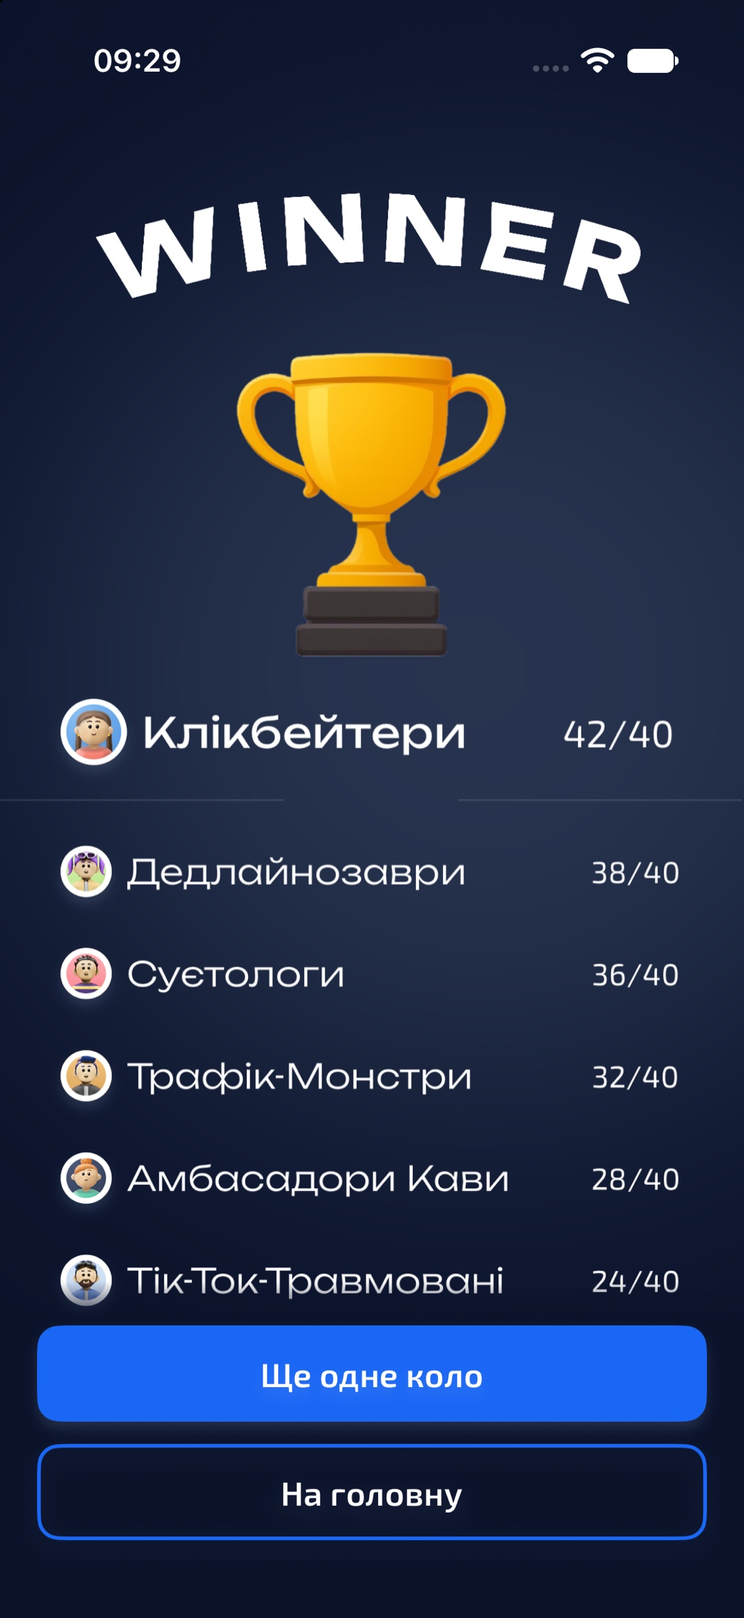
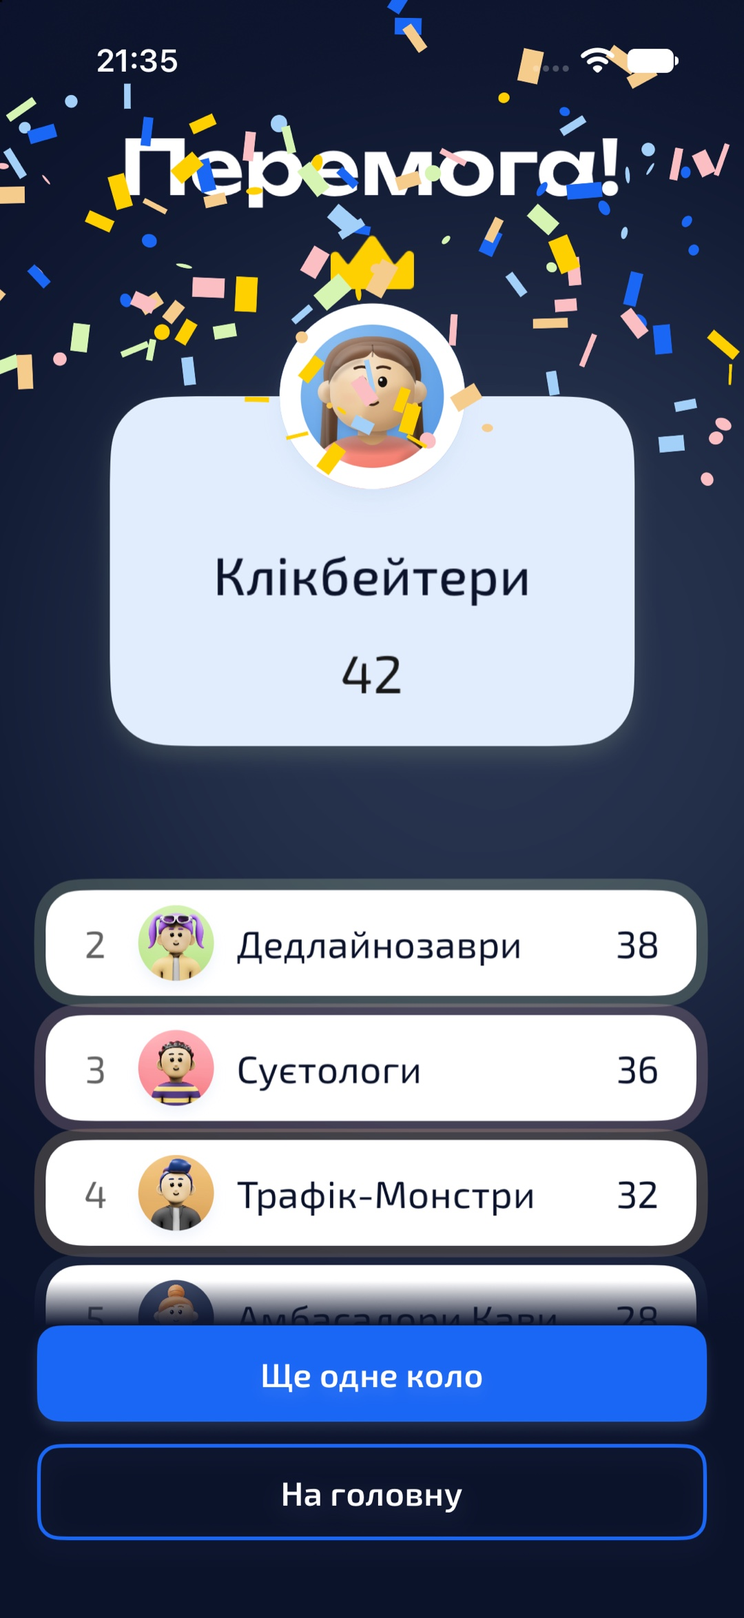
Перемога: картка переможця, «Перемога!» замість WINNER, салют
Claude-Session: https://claude.ai/code/session_01SnGbK59qBap6rGwT8CguWL

diff --git a/index.html b/index.html
@@ -155,7 +155,7 @@ body.canvas .canvashint{display:block}
 </div>
 <div class="toast" id="toast">Коментар надіслано</div>
 <iframe name="gsink" hidden></iframe>
-<script id="data" type="application/json">[{"id": "home", "title": "Головна", "flows": [{"id": "home-main", "title": "Головна й слово дня", "screens": [["main", "Головна", "Слово дня закрите, «Нова гра» і «Приєднатись до кімнати»"], ["mainWord", "Слово дня відкрите", "Лице з коротким визначенням і кнопкою «Зберегти»"], ["mainGame", "Є активна партія", "Картка «Продовжити гру» над кнопками"]]}]}, {"id": "local", "title": "Гра на одному пристрої", "flows": [{"id": "local-start", "title": "Старт і правила", "screens": [["playStyle", "Спосіб гри", "На одному телефоні або кожен зі свого (кімната)"], ["rules", "Правила · команди", "Три слайди, свайп або «Далі»"], ["rules2", "Правила: 2 з 3", "Що заборонено: однокореневі, жести, пропуск без штрафу"], ["rules3", "Правила: 3 з 3", "Система балів, кнопка «Готово»"], ["rulesSolo", "Правила · одиночна", "Окремий набір правил"], ["gameMode", "Формат гри", "Командний чи одиночний"]]}, {"id": "local-teams", "title": "Команди", "screens": [["participantCount", "Кількість", "Скільки гравців і команд"], ["teamList", "Команди", "Назви й аватари, «Додати команду»"], ["teamListRename", "Перейменування", "Оверлей із полем"], ["teamListAdd", "Нова команда", "Той самий оверлей: аватар і колір наступні за списком"], ["teamListSolo", "Одиночний режим", "Список гравців, під ним «Переглянути правила»"]]}, {"id": "local-sets", "title": "Набори слів", "screens": [["setList", "Набори слів", "«Усе й одразу» і окремі сети, фільтри-таби"], ["setListOwned", "Набори · куплений сет", "Бейдж «Придбано» на картці"], ["setDetail", "Опис набору", "Безкоштовний сет: теги слів і «Грати»"], ["setDetailOwned", "Опис · куплений", "Сет відкрито покупкою"]]}, {"id": "local-mode", "title": "Режим гри", "screens": [["gameSettings", "Режим гри", "Три пастельні режими й «Свій режим»"], ["gameSettingsQuick", "Швидка гра", "Пресет одним тапом: 40 с, до 20 очок"], ["gameSettingsDetails", "Свій режим", "Чіпи, слайдери-пігулки, тумблери всередині картки"]]}, {"id": "local-ready", "title": "Між раундами", "screens": [["getReady", "Раунд 1", "Рахунок команд, «Почати гру»"], ["getReady6", "Раунд · 6 команд", "Повний список"], ["getReadyCircle", "Раунд · кінець кола", "Ліміт узято, коло дограють"], ["ranking", "Коло завершено · топ 3", "Після кола той самий екран показує пʼєдестал"], ["ranking6", "Коло завершено · 6 команд", "Пʼєдестал і таблиця решти"]]}]}, {"id": "room", "title": "Кімната (кілька телефонів)", "flows": [{"id": "room-host", "title": "Організатор", "screens": [["playerNameHost", "Твій нік · організатор", "Порожнє поле, «Створити кімнату» неактивна"], ["createRoom", "Лобі організатора", "Код і QR для гостей, список учасників"], ["createRoomEmpty", "Порожня кімната", "Лише організатор, «Чекаємо на гравців…», «Продовжити» вимкнена"], ["createRoomClose", "Закрити кімнату?", "Вихід із лобі до старту"], ["gameModeRoom", "Формат · мала кімната", "До 3 гравців доступний і одиночний"], ["gameModeRoomBig", "Формат · кімната", "Одиночний недоступний, коли гравців більше 3"], ["participantCountRoom", "Учасники · кімната", "Аватари з лобі, вибір кількості команд"], ["teamRoster", "Команди · кімната", "Гравців можна перетягувати між командами"], ["roomRoleExplainer", "Роль: пояснювач", "Бачить слова, старт раунду"], ["roomHostExit", "Вихід організатора", "Роль переходить наступному гравцю"]]}, {"id": "room-join", "title": "Гість: приєднання", "screens": [["joinRoom", "Приєднатись", "Код шістьма плитками, «Сканувати QR»"], ["joinRoomFilled", "Код набрано", "Каретка на активній плитці"], ["joinRoomError", "Кімнату не знайдено", "Червоні плитки, струс"], ["joinRoomLink", "Вставлене посилання", "Із посилання-запрошення поле бере лише код і одразу входить"], ["scanQR", "Сканування QR", "Вікно з градієнтною рамкою, стан у капсулі"], ["scanQRFound", "QR зчитано", "Зелені скоби, код плитками"], ["playerName", "Твій нік", "Аватар і нік перед лобі"], ["playerNameFilled", "Нік заповнено", "Минулий нік підставлено"], ["roomLobby", "Лобі гостя", "Аватар організатора, код, список учасників"], ["teamRosterGuest", "Команди · гість", "Готовий склад, своя команда з бейджем «ти»"], ["roomClosed", "Кімнату закрито", "Організатор вийшов до старту"]]}, {"id": "room-round", "title": "Гість: раунд", "screens": [["roomRole", "Роль: відгадувач", "Слухає й вигукує"], ["roomRoleWatch", "Роль: стоп-слова", "Суперник у хард-режимі стежить за забороненими"], ["roomGuessing", "Раунд у гостя", "Слово сховане, «Вигукуй варіанти» на місці CTA"], ["roomGuessingWait", "Раунд суперника", "Грає інша команда, чекай свій хід"], ["roomGuessingHard", "Хард-режим · суперники", "Заборонені слова й «Зняти слово»"], ["roomGuessingStop", "Слово знято", "Штамп «Порушення!»"], ["roomGuessingLastWord", "Останнє слово", "Вгадують усі"], ["roomGuessingExit", "Вийти з гри?", "Таймер на паузі"], ["roomHostLost", "Організатор зник", "Пауза й відлік до передачі ролі"]]}]}, {"id": "loop", "title": "Ігровий цикл", "flows": [{"id": "loop-round", "title": "Раунд", "screens": [["gameplayCountdown", "Відлік", "3, 2, 1"], ["gameplay", "Раунд", "Свайп угору: відгадано"], ["gameplayHardWord", "Складне слово", "На картці «+2»: складне слово дає два бали"], ["gameplayHint", "Підказки свайпу", "Показуються в перших раундах"], ["gameplaySwipe", "Свайп угору", "Вердикт видно під пальцем"], ["gameplayHard", "Хард-режим · пояснювач", "Три заборонені підказки під терміном"], ["gameplayStreak", "Бонус за серію", "Спалах при серії"], ["gameplayLastSeconds", "Останні 10 секунд", "Таймер і смужка персикові, цифра пульсує"], ["gameplayLastWord", "Останнє слово", "Час вийшов на слові"], ["gameplayModal", "Хто відгадав", "Вибір команди для останнього слова"], ["gameplayExit", "Вийти з гри?", "Таймер на паузі, раунд не збережеться"]]}, {"id": "loop-results", "title": "Підсумок раунду", "screens": [["roundResults", "Підсумок раунду", "Зірка «зараховано», тап по слову розкриває значення"], ["roundResultsOpen", "Слово розкрите", "Визначення під терміном"], ["roundResultsHard", "Складні слова +2", "Корона «+2» у чіпі складного слова"], ["roundResultsStop", "Підсумок зі знятим словом", "Позначка біля знятого слова"], ["roundResultsCredited", "Бал іншій команді", "Капсула з назвою команди"], ["roundResultsGuest", "Підсумок у гостя", "Зірки лише для читання"]]}, {"id": "loop-final", "title": "Фінал", "screens": [["win", "Перемога", "«Ще одне коло» або на головну"]]}]}, {"id": "dict", "title": "Словник", "flows": [{"id": "dict-main", "title": "Словник", "screens": [["savedWords", "Словник", "Плитки «Вивчено / Вчу» — фільтр статусу, чипи — набори"], ["savedWordsFiltered", "Фільтр: Вчу + набір", "Плитка «Вчу» обрана, чип набору — два фільтри разом"], ["savedWordsDone", "Усе вивчено", "Таб «Вчу» зник як порожній"], ["savedWordsEmpty", "Порожній словник", "До першого слова"]]}, {"id": "dict-cards", "title": "Флешкартки", "screens": [["savedWordCardsCoachTap", "Онбординг · торкнись", "Підказка на місці лічильника"], ["savedWordCardsCoachBack", "Онбординг · свайпни", "Угору, якщо знаєш; вниз, якщо ще вчиш"], ["savedWordCards", "Лице картки", "Сет згори, бокові картки, «Вивчено / Вчу»"], ["savedWordCardsBack", "Зворот", "Визначення й «ПРИКЛАД»"], ["savedWordCardsDragUp", "Тягнуть угору", "Штамп «Вивчено», лічильник підсвічено"], ["savedWordCardsDragDown", "Тягнуть униз", "Штамп «Ще вчу»"], ["savedWordCardsConfetti", "Колоду пройдено", "Салют конфеті на фіналі"], ["savedWordCardsDone", "Фінал колоди", "«Додати слова» або «Повторити всі»"]]}, {"id": "dict-history", "title": "Історія ігор", "screens": [["addWords", "Історія ігор", "Партії: сети, переможець, стос команд"], ["playedGameWords", "Слова партії", "«Зберегти» в словник"], ["playedGameWordsToast", "Слово додано", "Тост-капсула"], ["playedGameWordsTeam", "Фільтр команди", "Лише слова обраної команди"], ["addWordsEmpty", "Ще не грали", "Порожня історія"]]}]}, {"id": "money", "title": "Монетизація", "flows": [{"id": "money-paywall", "title": "Пейвол і покупки", "screens": [["paywall", "Пейвол підписки", "Тарифи 1 і 3 місяці"], ["paywallPay", "Шторка оплати", "Нативна StoreKit"], ["paywallSet", "Пейвол набору", "Купівля одного сету"], ["paywallBrands", "Пейвол · Бренди", "Конкретний набір"], ["paywallSocial", "Пейвол · Соцмережі", "Інший набір, інша обкладинка"], ["paywallTools", "Пейвол · Інструменти", "Ще один набір"], ["paywallOwned", "Придбаний набір", "«Грати» і «Повний доступ»"], ["paywallActive", "Активна підписка", "Чинний доступ"]]}]}, {"id": "states", "title": "Діалоги, тости, помилки", "flows": [{"id": "states-confirm", "title": "Вікна підтвердження", "screens": [["mainNewGame", "Почати нову гру?", "Є активна партія: нова гра стирає поточну"], ["getReadyExit", "Вийти з гри: підготовка", "У кімнаті організатор передає роль і виходить"], ["rankingExit", "Вийти з гри: коло завершено", "Те саме підтвердження між раундами"], ["teamRosterExit", "Вийти з гри: гість", "Гість покидає кімнату, гра йде без нього"]]}, {"id": "states-toast", "title": "Повідомлення внизу екрана", "screens": [["createRoomCopied", "Код скопійовано", "Інфо-тост над парою кнопок"], ["roomGuessingNewHost", "Новий організатор", "Організатор пішов, роль перейшла гравцю"], ["roomGuessingHostBack", "Організатор повернувся", "Після короткого обриву звʼязку"], ["teamRosterFew", "Замало гравців", "Попередження: на ще одну команду людей не вистачає"], ["paywallErrorVerify", "Покупку не підтверджено", "Помилка перевірки чека"], ["paywallErrorPending", "Оплата очікує", "Покупка чекає на підтвердження (напр., батьківський контроль)"], ["paywallErrorGeneric", "Помилка оплати", "Загальна помилка з причиною"]]}, {"id": "states-input", "title": "Ліміти й помилки вводу", "screens": [["playerNameLong", "Нік задовгий", "Понад 16 символів: поле в помилці, кнопка вимкнена"], ["teamListRenameLong", "Назва команди задовга", "Понад 20 символів: «Зберегти» вимкнена"], ["teamListMax", "Максимум команд", "Шість команд, «Додати команду» вимкнена"]]}]}, {"id": "settings", "title": "Налаштування", "flows": [{"id": "settings-sub", "title": "Підписка: усі стани", "screens": [["appSettings", "Без підписки", "«Відкрити всі сети»"], ["appSettingsSets", "Куплені окремі сети", "Список куплених сетів у блоці Pro"], ["appSettingsPro", "Підписка активна", "1 місяць, до дати, «Керувати підпискою»"], ["appSettingsProEnding", "Підписку скасовано", "Діє до дати, не продовжиться"], ["appSettingsBilling", "Оплата не пройшла", "Apple повторює спробу"], ["appSettingsExpired", "Підписка закінчилась", "«Поновити підписку»"]]}, {"id": "settings-other", "title": "Інше", "screens": [["appSettingsLanguage", "Вибір мови", "Українська, English «скоро»"], ["launch", "Запуск", "Сплеш при старті"]]}]}]</script>
+<script id="data" type="application/json">[{"id": "home", "title": "Головна", "flows": [{"id": "home-main", "title": "Головна й слово дня", "screens": [["main", "Головна", "Слово дня закрите, «Нова гра» і «Приєднатись до кімнати»"], ["mainWord", "Слово дня відкрите", "Лице з коротким визначенням і кнопкою «Зберегти»"], ["mainGame", "Є активна партія", "Картка «Продовжити гру» над кнопками"]]}]}, {"id": "local", "title": "Гра на одному пристрої", "flows": [{"id": "local-start", "title": "Старт і правила", "screens": [["playStyle", "Спосіб гри", "На одному телефоні або кожен зі свого (кімната)"], ["rules", "Правила · команди", "Три слайди, свайп або «Далі»"], ["rules2", "Правила: 2 з 3", "Що заборонено: однокореневі, жести, пропуск без штрафу"], ["rules3", "Правила: 3 з 3", "Система балів, кнопка «Готово»"], ["rulesSolo", "Правила · одиночна", "Окремий набір правил"], ["gameMode", "Формат гри", "Командний чи одиночний"]]}, {"id": "local-teams", "title": "Команди", "screens": [["participantCount", "Кількість", "Скільки гравців і команд"], ["teamList", "Команди", "Назви й аватари, «Додати команду»"], ["teamListRename", "Перейменування", "Оверлей із полем"], ["teamListAdd", "Нова команда", "Той самий оверлей: аватар і колір наступні за списком"], ["teamListSolo", "Одиночний режим", "Список гравців, під ним «Переглянути правила»"]]}, {"id": "local-sets", "title": "Набори слів", "screens": [["setList", "Набори слів", "«Усе й одразу» і окремі сети, фільтри-таби"], ["setListOwned", "Набори · куплений сет", "Бейдж «Придбано» на картці"], ["setDetail", "Опис набору", "Безкоштовний сет: теги слів і «Грати»"], ["setDetailOwned", "Опис · куплений", "Сет відкрито покупкою"]]}, {"id": "local-mode", "title": "Режим гри", "screens": [["gameSettings", "Режим гри", "Три пастельні режими й «Свій режим»"], ["gameSettingsQuick", "Швидка гра", "Пресет одним тапом: 40 с, до 20 очок"], ["gameSettingsDetails", "Свій режим", "Чіпи, слайдери-пігулки, тумблери всередині картки"]]}, {"id": "local-ready", "title": "Між раундами", "screens": [["getReady", "Раунд 1", "Рахунок команд, «Почати гру»"], ["getReady6", "Раунд · 6 команд", "Повний список"], ["getReadyCircle", "Раунд · кінець кола", "Ліміт узято, коло дограють"], ["ranking", "Коло завершено · топ 3", "Після кола той самий екран показує пʼєдестал"], ["ranking6", "Коло завершено · 6 команд", "Пʼєдестал і таблиця решти"]]}]}, {"id": "room", "title": "Кімната (кілька телефонів)", "flows": [{"id": "room-host", "title": "Організатор", "screens": [["playerNameHost", "Твій нік · організатор", "Порожнє поле, «Створити кімнату» неактивна"], ["createRoom", "Лобі організатора", "Код і QR для гостей, список учасників"], ["createRoomEmpty", "Порожня кімната", "Лише організатор, «Чекаємо на гравців…», «Продовжити» вимкнена"], ["createRoomClose", "Закрити кімнату?", "Вихід із лобі до старту"], ["gameModeRoom", "Формат · мала кімната", "До 3 гравців доступний і одиночний"], ["gameModeRoomBig", "Формат · кімната", "Одиночний недоступний, коли гравців більше 3"], ["participantCountRoom", "Учасники · кімната", "Аватари з лобі, вибір кількості команд"], ["teamRoster", "Команди · кімната", "Гравців можна перетягувати між командами"], ["roomRoleExplainer", "Роль: пояснювач", "Бачить слова, старт раунду"], ["roomHostExit", "Вихід організатора", "Роль переходить наступному гравцю"]]}, {"id": "room-join", "title": "Гість: приєднання", "screens": [["joinRoom", "Приєднатись", "Код шістьма плитками, «Сканувати QR»"], ["joinRoomFilled", "Код набрано", "Каретка на активній плитці"], ["joinRoomError", "Кімнату не знайдено", "Червоні плитки, струс"], ["joinRoomLink", "Вставлене посилання", "Із посилання-запрошення поле бере лише код і одразу входить"], ["scanQR", "Сканування QR", "Вікно з градієнтною рамкою, стан у капсулі"], ["scanQRFound", "QR зчитано", "Зелені скоби, код плитками"], ["playerName", "Твій нік", "Аватар і нік перед лобі"], ["playerNameFilled", "Нік заповнено", "Минулий нік підставлено"], ["roomLobby", "Лобі гостя", "Аватар організатора, код, список учасників"], ["teamRosterGuest", "Команди · гість", "Готовий склад, своя команда з бейджем «ти»"], ["roomClosed", "Кімнату закрито", "Організатор вийшов до старту"]]}, {"id": "room-round", "title": "Гість: раунд", "screens": [["roomRole", "Роль: відгадувач", "Слухає й вигукує"], ["roomRoleWatch", "Роль: стоп-слова", "Суперник у хард-режимі стежить за забороненими"], ["roomGuessing", "Раунд у гостя", "Слово сховане, «Вигукуй варіанти» на місці CTA"], ["roomGuessingWait", "Раунд суперника", "Грає інша команда, чекай свій хід"], ["roomGuessingHard", "Хард-режим · суперники", "Заборонені слова й «Зняти слово»"], ["roomGuessingStop", "Слово знято", "Штамп «Порушення!»"], ["roomGuessingLastWord", "Останнє слово", "Вгадують усі"], ["roomGuessingExit", "Вийти з гри?", "Таймер на паузі"], ["roomHostLost", "Організатор зник", "Пауза й відлік до передачі ролі"]]}]}, {"id": "loop", "title": "Ігровий цикл", "flows": [{"id": "loop-round", "title": "Раунд", "screens": [["gameplayCountdown", "Відлік", "3, 2, 1"], ["gameplay", "Раунд", "Свайп угору: відгадано"], ["gameplayHardWord", "Складне слово", "На картці «+2»: складне слово дає два бали"], ["gameplayHint", "Підказки свайпу", "Показуються в перших раундах"], ["gameplaySwipe", "Свайп угору", "Вердикт видно під пальцем"], ["gameplayHard", "Хард-режим · пояснювач", "Три заборонені підказки під терміном"], ["gameplayStreak", "Бонус за серію", "Спалах при серії"], ["gameplayLastSeconds", "Останні 10 секунд", "Таймер і смужка персикові, цифра пульсує"], ["gameplayLastWord", "Останнє слово", "Час вийшов на слові"], ["gameplayModal", "Хто відгадав", "Вибір команди для останнього слова"], ["gameplayExit", "Вийти з гри?", "Таймер на паузі, раунд не збережеться"]]}, {"id": "loop-results", "title": "Підсумок раунду", "screens": [["roundResults", "Підсумок раунду", "Зірка «зараховано», тап по слову розкриває значення"], ["roundResultsOpen", "Слово розкрите", "Визначення під терміном"], ["roundResultsHard", "Складні слова +2", "Корона «+2» у чіпі складного слова"], ["roundResultsStop", "Підсумок зі знятим словом", "Позначка біля знятого слова"], ["roundResultsCredited", "Бал іншій команді", "Капсула з назвою команди"], ["roundResultsGuest", "Підсумок у гостя", "Зірки лише для читання"]]}, {"id": "loop-final", "title": "Фінал", "screens": [["win", "Перемога", "Картка переможця в кольорі команди, корона, салют; решта списком"]]}]}, {"id": "dict", "title": "Словник", "flows": [{"id": "dict-main", "title": "Словник", "screens": [["savedWords", "Словник", "Плитки «Вивчено / Вчу» — фільтр статусу, чипи — набори"], ["savedWordsFiltered", "Фільтр: Вчу + набір", "Плитка «Вчу» обрана, чип набору — два фільтри разом"], ["savedWordsDone", "Усе вивчено", "Таб «Вчу» зник як порожній"], ["savedWordsEmpty", "Порожній словник", "До першого слова"]]}, {"id": "dict-cards", "title": "Флешкартки", "screens": [["savedWordCardsCoachTap", "Онбординг · торкнись", "Підказка на місці лічильника"], ["savedWordCardsCoachBack", "Онбординг · свайпни", "Угору, якщо знаєш; вниз, якщо ще вчиш"], ["savedWordCards", "Лице картки", "Сет згори, бокові картки, «Вивчено / Вчу»"], ["savedWordCardsBack", "Зворот", "Визначення й «ПРИКЛАД»"], ["savedWordCardsDragUp", "Тягнуть угору", "Штамп «Вивчено», лічильник підсвічено"], ["savedWordCardsDragDown", "Тягнуть униз", "Штамп «Ще вчу»"], ["savedWordCardsConfetti", "Колоду пройдено", "Салют конфеті на фіналі"], ["savedWordCardsDone", "Фінал колоди", "«Додати слова» або «Повторити всі»"]]}, {"id": "dict-history", "title": "Історія ігор", "screens": [["addWords", "Історія ігор", "Партії: сети, переможець, стос команд"], ["playedGameWords", "Слова партії", "«Зберегти» в словник"], ["playedGameWordsToast", "Слово додано", "Тост-капсула"], ["playedGameWordsTeam", "Фільтр команди", "Лише слова обраної команди"], ["addWordsEmpty", "Ще не грали", "Порожня історія"]]}]}, {"id": "money", "title": "Монетизація", "flows": [{"id": "money-paywall", "title": "Пейвол і покупки", "screens": [["paywall", "Пейвол підписки", "Тарифи 1 і 3 місяці"], ["paywallPay", "Шторка оплати", "Нативна StoreKit"], ["paywallSet", "Пейвол набору", "Купівля одного сету"], ["paywallBrands", "Пейвол · Бренди", "Конкретний набір"], ["paywallSocial", "Пейвол · Соцмережі", "Інший набір, інша обкладинка"], ["paywallTools", "Пейвол · Інструменти", "Ще один набір"], ["paywallOwned", "Придбаний набір", "«Грати» і «Повний доступ»"], ["paywallActive", "Активна підписка", "Чинний доступ"]]}]}, {"id": "states", "title": "Діалоги, тости, помилки", "flows": [{"id": "states-confirm", "title": "Вікна підтвердження", "screens": [["mainNewGame", "Почати нову гру?", "Є активна партія: нова гра стирає поточну"], ["getReadyExit", "Вийти з гри: підготовка", "У кімнаті організатор передає роль і виходить"], ["rankingExit", "Вийти з гри: коло завершено", "Те саме підтвердження між раундами"], ["teamRosterExit", "Вийти з гри: гість", "Гість покидає кімнату, гра йде без нього"]]}, {"id": "states-toast", "title": "Повідомлення внизу екрана", "screens": [["createRoomCopied", "Код скопійовано", "Інфо-тост над парою кнопок"], ["roomGuessingNewHost", "Новий організатор", "Організатор пішов, роль перейшла гравцю"], ["roomGuessingHostBack", "Організатор повернувся", "Після короткого обриву звʼязку"], ["teamRosterFew", "Замало гравців", "Попередження: на ще одну команду людей не вистачає"], ["paywallErrorVerify", "Покупку не підтверджено", "Помилка перевірки чека"], ["paywallErrorPending", "Оплата очікує", "Покупка чекає на підтвердження (напр., батьківський контроль)"], ["paywallErrorGeneric", "Помилка оплати", "Загальна помилка з причиною"]]}, {"id": "states-input", "title": "Ліміти й помилки вводу", "screens": [["playerNameLong", "Нік задовгий", "Понад 16 символів: поле в помилці, кнопка вимкнена"], ["teamListRenameLong", "Назва команди задовга", "Понад 20 символів: «Зберегти» вимкнена"], ["teamListMax", "Максимум команд", "Шість команд, «Додати команду» вимкнена"]]}]}, {"id": "settings", "title": "Налаштування", "flows": [{"id": "settings-sub", "title": "Підписка: усі стани", "screens": [["appSettings", "Без підписки", "«Відкрити всі сети»"], ["appSettingsSets", "Куплені окремі сети", "Список куплених сетів у блоці Pro"], ["appSettingsPro", "Підписка активна", "1 місяць, до дати, «Керувати підпискою»"], ["appSettingsProEnding", "Підписку скасовано", "Діє до дати, не продовжиться"], ["appSettingsBilling", "Оплата не пройшла", "Apple повторює спробу"], ["appSettingsExpired", "Підписка закінчилась", "«Поновити підписку»"]]}, {"id": "settings-other", "title": "Інше", "screens": [["appSettingsLanguage", "Вибір мови", "Українська, English «скоро»"], ["launch", "Запуск", "Сплеш при старті"]]}]}]</script>
 <script>
 const DATA=JSON.parse(document.getElementById('data').textContent);
 const $=s=>document.querySelector(s);
@@ -180,7 +180,7 @@ function render(){
   board+=`<div class="secgrp"><div class="sechead" id="${sec.id}"><h2>${sec.title}</h2><span>${cnt} ${plural(cnt)}</span></div>`;
   flows.forEach(x=>{
    board+=`<section class="flow" id="${x.f.id}"><div class="flowcap"><h3>${x.f.title}</h3><span>${x.items.length} ${plural(x.items.length)}</span><button data-cflow="${x.f.id}">Коментувати флоу</button></div><div class="rowwrap"><button class="arrow l" aria-label="Назад">←</button><div class="row">`+
-    x.items.map(s=>`<figure class="shot" data-route="${s.route}"><div class="im"><img src="shots/${s.route}.jpg?v=2609221900" alt="${s.label}" loading="lazy" draggable="false"><i class="pinc"></i></div><figcaption class="cap"><b>${s.label}</b><span>${s.note}</span></figcaption></figure>`).join('')+
+    x.items.map(s=>`<figure class="shot" data-route="${s.route}"><div class="im"><img src="shots/${s.route}.jpg?v=2609221935" alt="${s.label}" loading="lazy" draggable="false"><i class="pinc"></i></div><figcaption class="cap"><b>${s.label}</b><span>${s.note}</span></figcaption></figure>`).join('')+
     `</div><button class="arrow r" aria-label="Далі">→</button></div></section>`;
   });
   board+=`</div>`;
@@ -238,9 +238,9 @@ function vFit(){const W=vs.clientWidth,H=vs.clientHeight;V.fitz=Math.min(W/IW,(H
 function v100(){const W=vs.clientWidth,H=vs.clientHeight;const cx=W/2,cy=H/2;vZoomAt(1/V.z*.5,cx,cy)}
 function vZoomAt(f,cx,cy){const nz=Math.min(3,Math.max(V.fitz*.5,V.z*f));const k=nz/V.z;V.x=cx-(cx-V.x)*k;V.y=cy-(cy-V.y)*k;V.z=nz;vApply()}
 function openViewer(route){const k=all.findIndex(a=>a.route===route);if(k<0)return;V.i=k;$('#viewer').classList.add('on');document.body.style.overflow='hidden';showV();}
-function showV(){const s=all[V.i];vi.src='shots/'+s.route+'.jpg?v=2609221900';
+function showV(){const s=all[V.i];vi.src='shots/'+s.route+'.jpg?v=2609221935';
  $('#vt').innerHTML=`<b>${s.label}</b><span>${s.flow.title} · ${s.note}</span><code>${s.route}</code>`;
- const fl=all.filter(a=>a.flow===s.flow);$('#strip').innerHTML=fl.map(a=>`<button data-r="${a.route}" class="${a===s?'on':''}" title="${a.label}"><img src="shots/${a.route}.jpg?v=2609221900" loading="lazy" alt=""></button>`).join('');
+ const fl=all.filter(a=>a.flow===s.flow);$('#strip').innerHTML=fl.map(a=>`<button data-r="${a.route}" class="${a===s?'on':''}" title="${a.label}"><img src="shots/${a.route}.jpg?v=2609221935" loading="lazy" alt=""></button>`).join('');
  $('#strip').querySelectorAll('button').forEach(b=>b.onclick=()=>openViewer(b.dataset.r));
  $('#strip .on')?.scrollIntoView({inline:'center',block:'nearest'});
  vimg.querySelectorAll('.pin,.pop').forEach(n=>n.remove());
